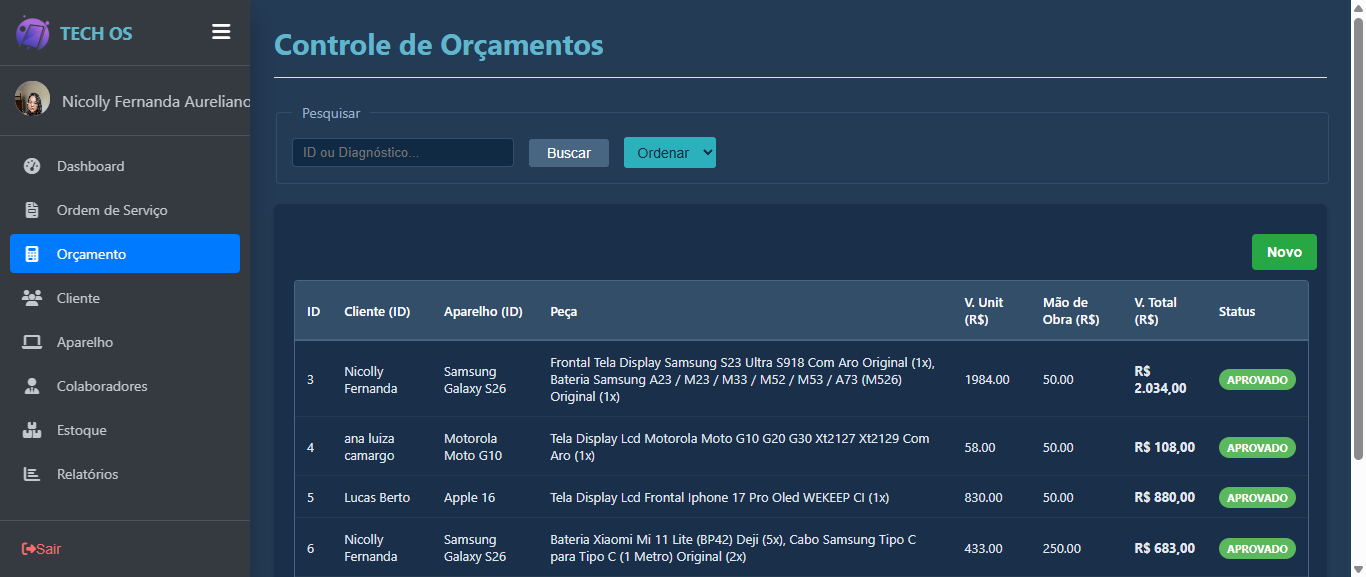
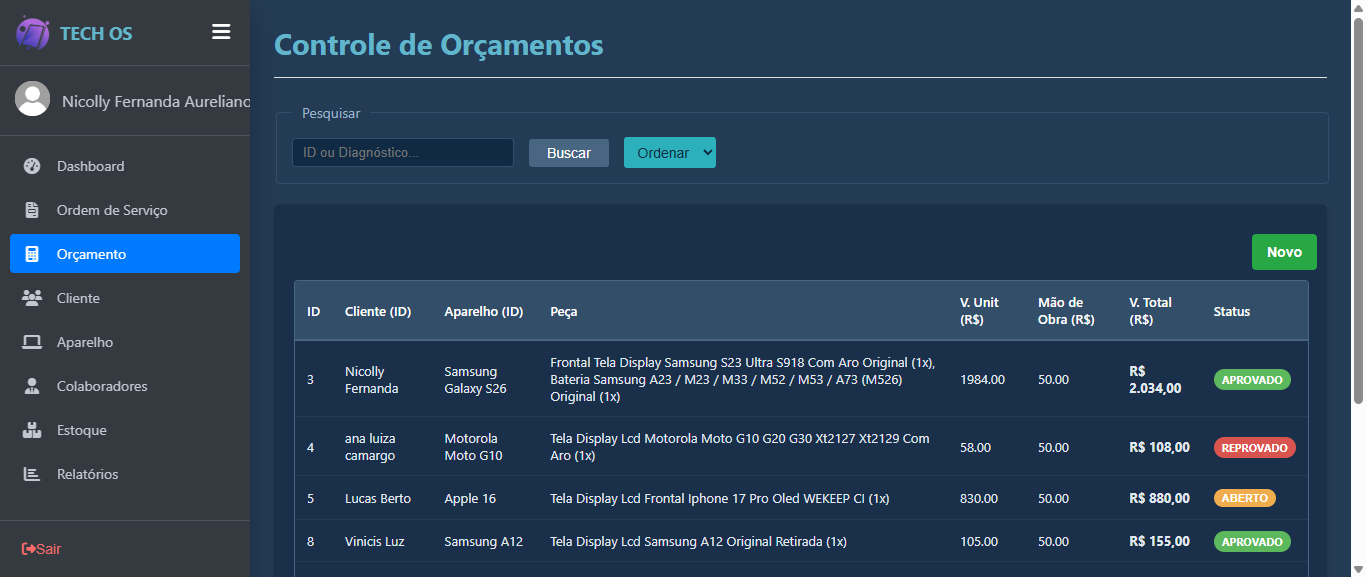
teste orçamento

diff --git a/TesteOrcamento/dashboard.html b/TesteOrcamento/dashboard.html
@@ -24,8 +24,8 @@
             <div class="container">
                 <h1>Relatório de Orçamentos - TechOS</h1>
                 <div class="summary">
-                    <div class="card"><h3>Total</h3><h2>2</h2></div>
-                    <div class="card"><h3 class="status-sucesso">Sucessos</h3><h2>2</h2></div>
+                    <div class="card"><h3>Total</h3><h2>3</h2></div>
+                    <div class="card"><h3 class="status-sucesso">Sucessos</h3><h2>3</h2></div>
                     <div class="card"><h3 class="status-falha">Falhas</h3><h2>0</h2></div>
                 </div>
                 <table>
@@ -42,18 +42,26 @@
         
                 <tr>
                     <td>1</td>
-                    <td>Troca do módulo traseiro e alto-falante.</td>
-                    <td>R$ 52.2</td>
+                    <td>Limpeza desoxidante após contato com líquido.</td>
+                    <td>R$ 195.35</td>
                     <td class="status-sucesso">Sucesso</td>
                     <td><a class="img-link" href="cadastro_orcamento_1.png" target="_blank">Visualizar Screenshot</a></td>
                 </tr>
             
                 <tr>
                     <td>2</td>
-                    <td>Aparelho não liga, suspeita de curto na placa.</td>
-                    <td>R$ 130.62</td>
+                    <td>Substituição de conector de carga e bateria.</td>
+                    <td>R$ 97.52</td>
                     <td class="status-sucesso">Sucesso</td>
                     <td><a class="img-link" href="cadastro_orcamento_2.png" target="_blank">Visualizar Screenshot</a></td>
+                </tr>
+            
+                <tr>
+                    <td>3</td>
+                    <td>Troca do módulo traseiro e alto-falante.</td>
+                    <td>R$ 102.92</td>
+                    <td class="status-sucesso">Sucesso</td>
+                    <td><a class="img-link" href="cadastro_orcamento_3.png" target="_blank">Visualizar Screenshot</a></td>
                 </tr>
             
                     </tbody>
